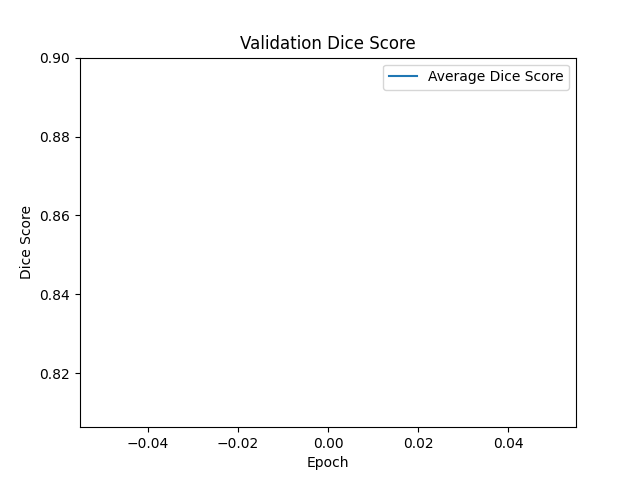
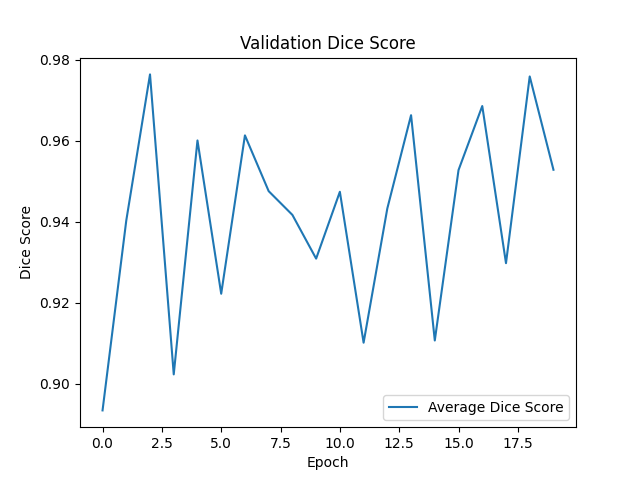
Adds fully trained graphs and predictions, adds docstring comments, various other comments, and typehints to scripts.

diff --git a/recognition/project_1_oasis_segmentation_s4744705/train.py b/recognition/project_1_oasis_segmentation_s4744705/train.py
@@ -1,4 +1,4 @@
-# Can be run as a script or used as a library w/ the train function
+# Can be run as a script (if you just want to train and test the model for hyperparameter tuning etc.) or used as a library w/ the train function
 
 import torch
 from modules import ImprovedUnet, DiceLoss
@@ -9,8 +9,15 @@ import argparse
 
 # Inspired by lecture code on DICE score
 def dice_score(predictions: torch.Tensor, targets: torch.Tensor, smooth = 1e-6):
+        """
+        Takes a batch of predictions and targets and returns the dice score over those.
+        predictions: predicted masks
+        targets: actual masks
+        smooth: smoothing constant, should be small. Avoids cases where coincidentally might have division by 0
+        returns: Dice score
+        """
         predictions = torch.sigmoid(predictions)
-        # want plain binary prediction, not the probability vector
+        # want plain binary prediction, not the probability vector (> 0.5 maps to 1: foreground, <=0.5 maps to 0: background)
         predictions = (predictions > 0.5).float()
         predictions = predictions.reshape(-1)
         targets = targets.reshape(-1).float()
@@ -19,10 +26,21 @@ def dice_score(predictions: torch.Tensor, targets: torch.Tensor, smooth = 1e-6):
         intersection = (predictions * targets).sum()
         dice_coeff = (2.0 * intersection + smooth) / (predictions.sum() + targets.sum() + smooth)
 
-        # Return Dice Loss (1 - Dice Coefficient)
         return dice_coeff.item()
 
-def train(model: ImprovedUnet, train_loader: DataLoader, validation_loader: Dataset, epochs: int = 20, lr: float = 1e-4, batch_size:int = 2, device = None, plot: bool = True):
+def train(model: ImprovedUnet, train_loader: DataLoader, validation_loader: Dataset, epochs: int = 20, lr: float = 1e-4, batch_size:int = 2, device = None, plot: bool = True) -> ImprovedUnet:
+    """
+    Trains an improved Unet Model, prints out progress output, validating as we go. Depending on parameters, also plots training loss and dice score over epochs.
+    model: Improved UNet to train
+    train_loader: data loader for training data
+    validation_loader: data loader for validation data
+    epochs: number of epochs to run training on
+    lr: learning rate
+    batch_size: batch size for training
+    device: device to conduct training on
+    plot: boolean indicating whether to draw and save new plots or not after training
+    returns: trained model
+    """
     print(f"Beginning training with device {device}...")
     criterion = DiceLoss()
     optimizer = torch.optim.Adam(model.parameters(), lr=lr)
@@ -63,12 +81,17 @@ def train(model: ImprovedUnet, train_loader: DataLoader, validation_loader: Data
             best_dice = dice_avg
             torch.save(model.state_dict(), "best_model.pth")
     if plot:
-        create_plots(epoch_losses, dices, best_dice)
+        create_plots(epoch_losses, dices)
 
     print(f"Training complete. Best Dice score: {best_dice}")
     return model
 
-def create_plots(epoch_losses, dices, best_dice):
+def create_plots(epoch_losses: list[float], dices: list[float]) -> None:
+    """
+    Creates plots for the dice scores and training losses
+    epoch_losses: array of losses during training
+    """
+
     plt.figure()
     plt.plot(epoch_losses, label="Train Loss")
     plt.xlabel("Epoch")
@@ -89,7 +112,14 @@ def create_plots(epoch_losses, dices, best_dice):
 
 
 
-def test(model: ImprovedUnet, test_loader: DataLoader, test_set: Dataset, device = None):
+def test(model: ImprovedUnet, test_loader: DataLoader, test_set: Dataset, device = None) -> None:
+    """
+    Tests an improved UNet model and prints out results
+    model: Model to test
+    test_loader: loader for testing data
+    test_set: dataset for testing data
+    device: device to create masks on
+    """
     print(f"Beginning testing...")
     model.eval()
     dice_total = 0

diff --git a/recognition/project_1_oasis_segmentation_s4744705/modules.py b/recognition/project_1_oasis_segmentation_s4744705/modules.py
@@ -3,13 +3,14 @@ import torch.nn as nn
 import torch.nn.functional as F
 
 
-
 class ImprovedUnet(nn.Module):
     """
     Architecture as per [1] converted to 2D as best as possible is(all Convs 3*3):
     conv -> (context module) -> stride 2 conv -> (context module) -> stride 2 conv -> 
     (context module) -> stride 2 conv -> (context module) stride 2 conv -> (context module)
-    #TODO: Make sure that all architectures are described completely. separating into classes makes it easy to describe blocks at a time
+    -> (upsample block) -> (upsample block) -> (upsample block)
+    where upsample blocks also have the corresponding level of context module output concatenated to their input
+    #NOTE: Although the paper uses a softmax in the final layer, it is unnecessary here as we do binary classification
     """
     def __init__(self, dropout_prob = 0.3):
         super().__init__()
@@ -96,9 +97,15 @@ class ContextBlock(nn.Module):
     Batch norm -> activation function (relu) -> 3*3 conv
     -> dropout
     -> Batch norm -> activation function (relu) -> 3*3 conv -> add on residual
-    where relus are leaking w/ slope 10^-2
+    where relus are leaky w/ slope 10^-2
     """
     def __init__(self, in_channels, out_channels, dropout_prob):
+        """
+        Initialise a Context Block.
+        in_channels: number of channels in input to block
+        out_channels: number of channels in output from block
+        dropout_prob: probability of dropping out a node in context blocks
+        """
         super().__init__()
         self.bn1 = nn.BatchNorm2d(in_channels)
         self.conv1 = nn.Conv2d(in_channels, out_channels, 3, padding = 1) # 3* 3 convulution
@@ -129,11 +136,20 @@ class LocalisationBlock(nn.Module):
     3*3 conv, then 1*1 conv, then of course activation function and batch norm
     """
     def __init__(self, in_channels, out_channels):
+        """
+        Initialise a Localisation block
+        in_channels: the number of input channels to the block
+        out_channels: the number of output channels from the block
+        """
         super().__init__()
         self.conv1 = nn.Conv2d(in_channels, out_channels, 3, padding = 1)
         self.bn = nn.BatchNorm2d(out_channels)
         self.conv2 = nn.Conv2d(out_channels, out_channels, 1)
     def forward(self, x):
+        """
+        Apply in sequence the operations of a localisation block
+        x: input to apply transforms on
+        """
         return F.leaky_relu(self.bn(self.conv2(self.conv1(x))), negative_slope = 10**(-2))
     
 """

diff --git a/recognition/project_1_oasis_segmentation_s4744705/predict.py b/recognition/project_1_oasis_segmentation_s4744705/predict.py
@@ -22,21 +22,28 @@ def make_predictions(model: ImprovedUnet, dir: str = "images/", seed: int = 1, d
     samples_validation_indices = random.sample(range(len(validation_dataset)),4)
 
     model.eval()  
-    save_predictions(model, train_dataset, samples_train_indices, "training_preds_sample.png", dir, seed, device)
-    save_predictions(model, test_dataset, samples_test_indices, "test_preds_sample.png", dir, seed, device)
-    save_predictions(model, validation_dataset, samples_validation_indices, "validation_preds_sample.png", dir, seed, device)
+    save_predictions(model, train_dataset, samples_train_indices, "training_preds_sample.png", dir, device)
+    save_predictions(model, test_dataset, samples_test_indices, "test_preds_sample.png", dir, device)
+    save_predictions(model, validation_dataset, samples_validation_indices, "validation_preds_sample.png", dir, device)
 
 
-def save_predictions(model: ImprovedUnet, dataset: Dataset, indices: list[int], filename: str, dir: str = "images/", seed: int = 1, device = None) -> None:
+def save_predictions(model: ImprovedUnet, dataset: Dataset, indices: list[int], filename: str, dir: str = "images/",  device = None) -> None:
     """
-    ...
+    Saves predictions for the particular dataset given compared to original image and ground truth masks. 
+    model: model to make predictions on
+    dataset: data to make predictions on
+    indices: indices in the dataset to make predictions on
     filename: name to save files as EXCLUDING DIRECTORY (will be indexed for multiple files)
+    dir: directory to save files to
+    device: device to generate masks on
     """
     for i, index in enumerate(indices):
         image, mask = dataset[index]
         image = image.unsqueeze(0).to(device)  # add batch dimension so model accepts it
         with torch.no_grad():
+            # make prediction mask
             pred = torch.sigmoid(model(image))
+        # move to cpu
         pred = pred.squeeze().cpu().numpy()
         mask = mask.squeeze().cpu().numpy()
         image = image.squeeze().cpu().numpy()

diff --git a/recognition/project_1_oasis_segmentation_s4744705/dataset.py b/recognition/project_1_oasis_segmentation_s4744705/dataset.py
@@ -48,7 +48,7 @@ class OASISProjectDataset(Dataset):
         img, mask = T.ToTensor()(Image.open(img_location)), ((T.ToTensor()(Image.open(mask_location)))> 0.5).float() # convert masks to boolean data
         return img, mask
 
-def get_datasets_and_data_loaders(batch_size: int):
+def get_datasets_and_data_loaders(batch_size: int) -> tuple[DataLoader]:
     """
     batch_size: the batch size for the data loaders
     returns: tuple containing, in order
@@ -58,8 +58,6 @@ def get_datasets_and_data_loaders(batch_size: int):
         - Test Data Loader
         - Validation Data Set
         - Validation Data Loader
-
-
     """
     training_data_set = OASISProjectDataset(TRAIN_DIR, TRAIN_DIR_SEG)
     training_data_loader = DataLoader(training_data_set, batch_size = batch_size, shuffle = True) # best to shuffle training data
